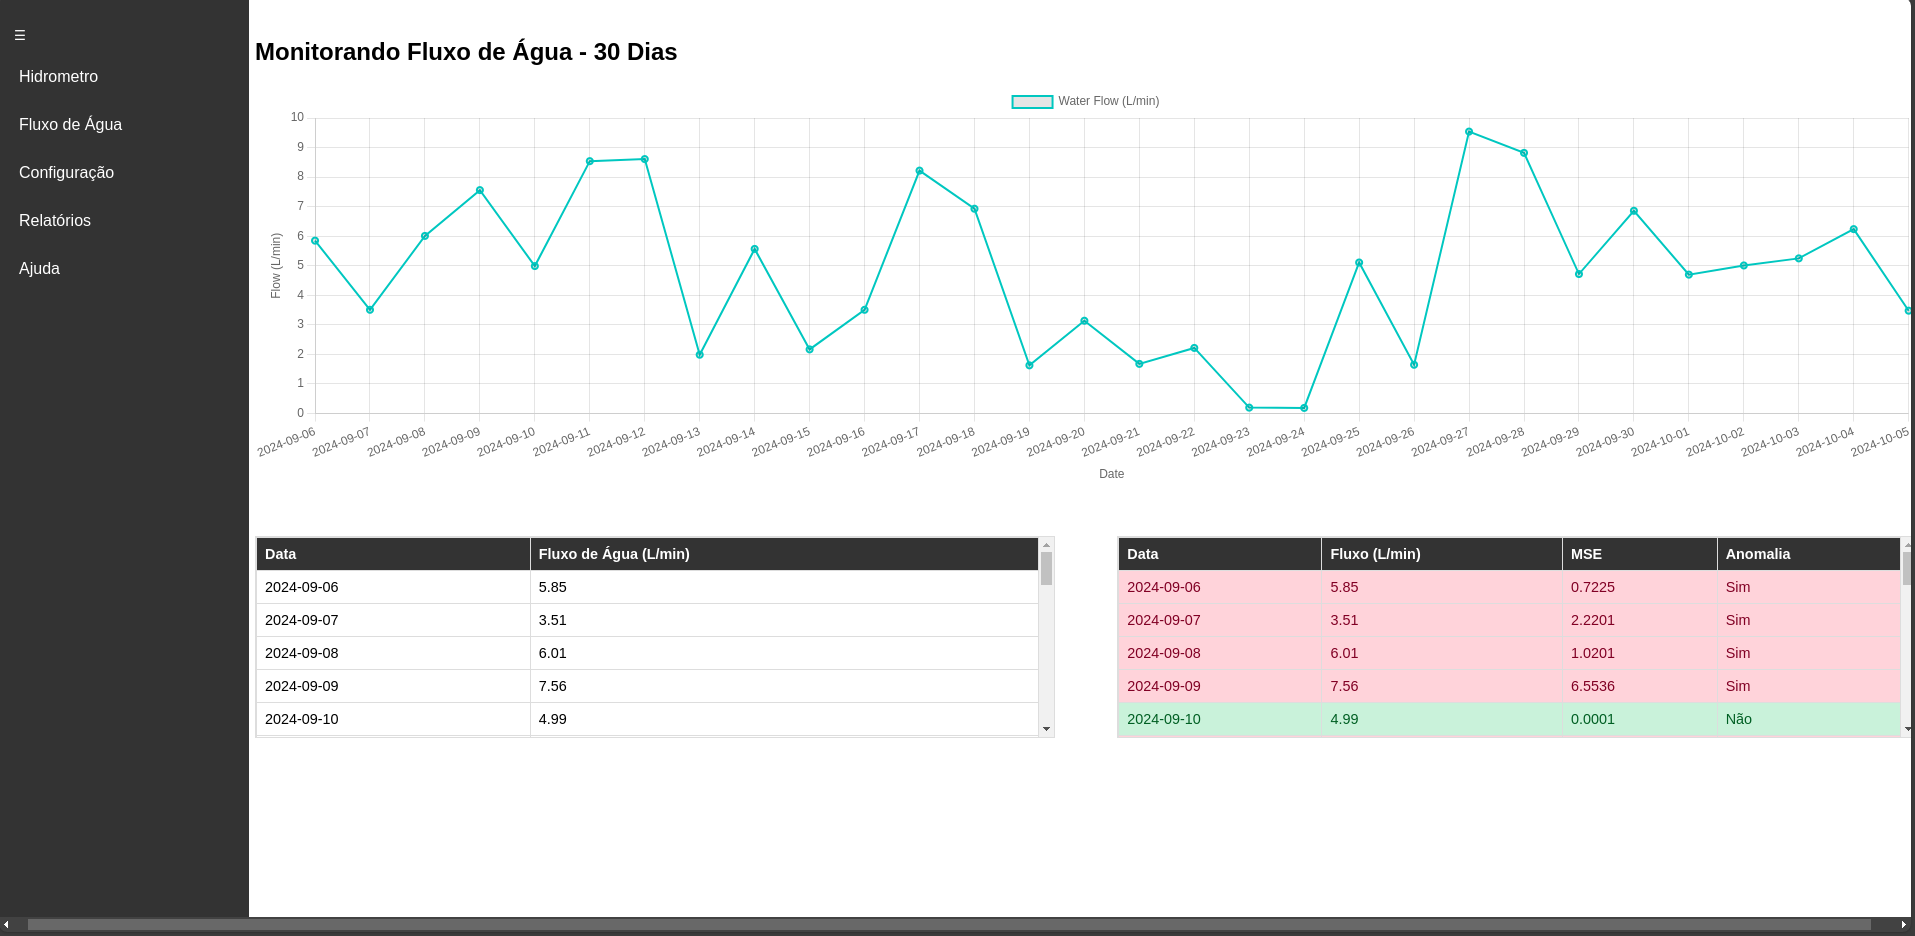
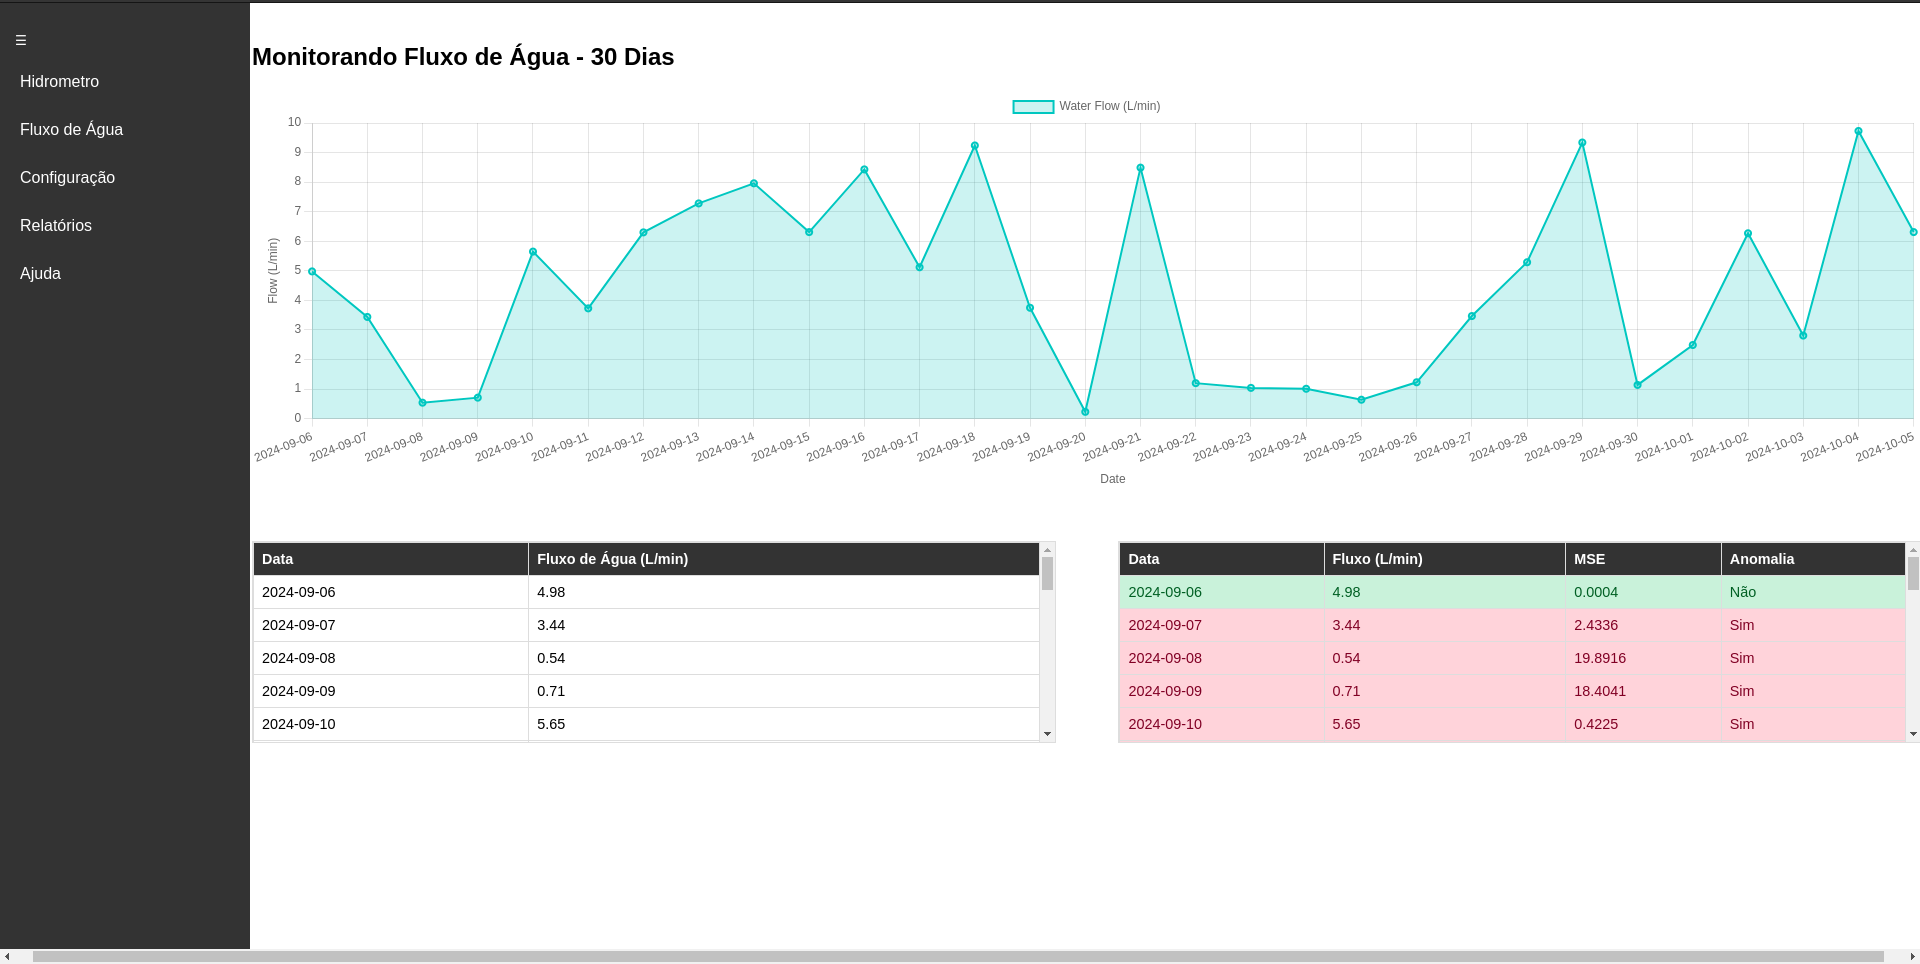
quinto  commit

diff --git a/index.html b/index.html
@@ -273,7 +273,8 @@
                     data: flowData,
                     borderColor: 'rgba(75, 192, 192, 1)',
                     borderWidth: 2,
-                    fill: false
+                    backgroundColor: 'rgba(75, 192, 192, 0.2)', // Cor de preenchimento abaixo da linha
+                    fill: true // Preenche a área abaixo da linha
                 }]
             },
             options: {
